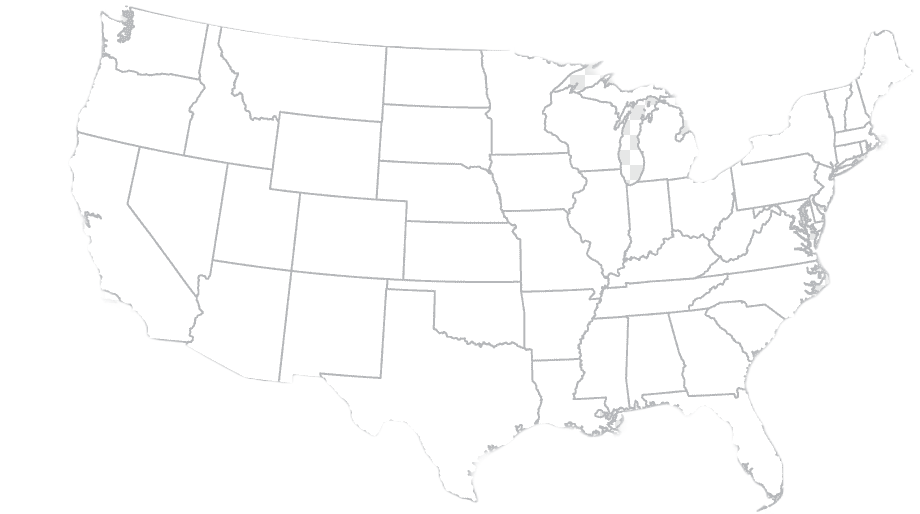
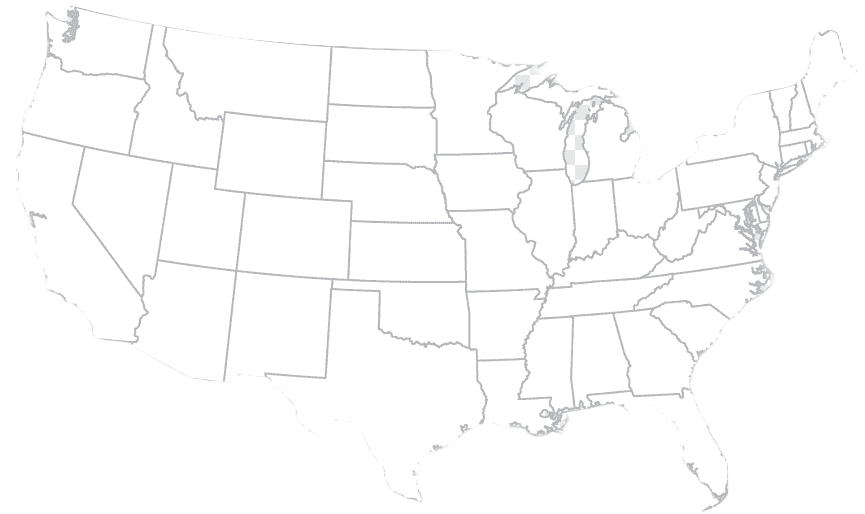
avance visualizacion

diff --git a/asses/css/style.css b/asses/css/style.css
@@ -11,8 +11,9 @@ E6E6FA
 
 .titulo {
     position: relative;
-    left: 650px; 
-    top: 0px; 
+    top: 10px; 
+    left: 50%;  /* va con translatex */
+    transform: translateX(-50%);
     white-space: nowrap; 
 }
 
@@ -34,11 +35,12 @@ img {
     position: relative; 
     background-color: lightblue;
     height: auto; 
-    transform: scale(1.9); 
+    transform: scale(1.8); 
     max-width: 530px; 
-    margin-left: -150px; 
+    margin-left: -100px; 
     margin-top: 230px; 
     border-radius: 10px;
+    border: 2px solid black; 
 }
 
 

diff --git a/asses/js/scrip.js b/asses/js/scrip.js
@@ -27,14 +27,6 @@ function procesarCSV(data) {
     return imagenes;
 }
 
-// funcion que cuenta
-function contar(){
-    for (let i = 1; i <= 10; i++) {
-        console.log(i);
-    }
-}
-
-
 function crearImagenes(imagenes) {
     const container = document.getElementById('imagenesContainer');
 

diff --git a/Readme.md b/Readme.md
@@ -1,15 +1,10 @@
 COSAS POR HACER:
 
-
 1. Descargar todo los logos de los equipos (AL FINAL PONER EN POSICION)
 
 2. Escribir informe
 
-3. Cambiar mapa bajar 
-
-4. Fondo gris y un recuadro celeste que cubra el mapa
-
-5. csv equipos cambair?
+3. csv equipos cambair filas?
 
 
 IDEAS
